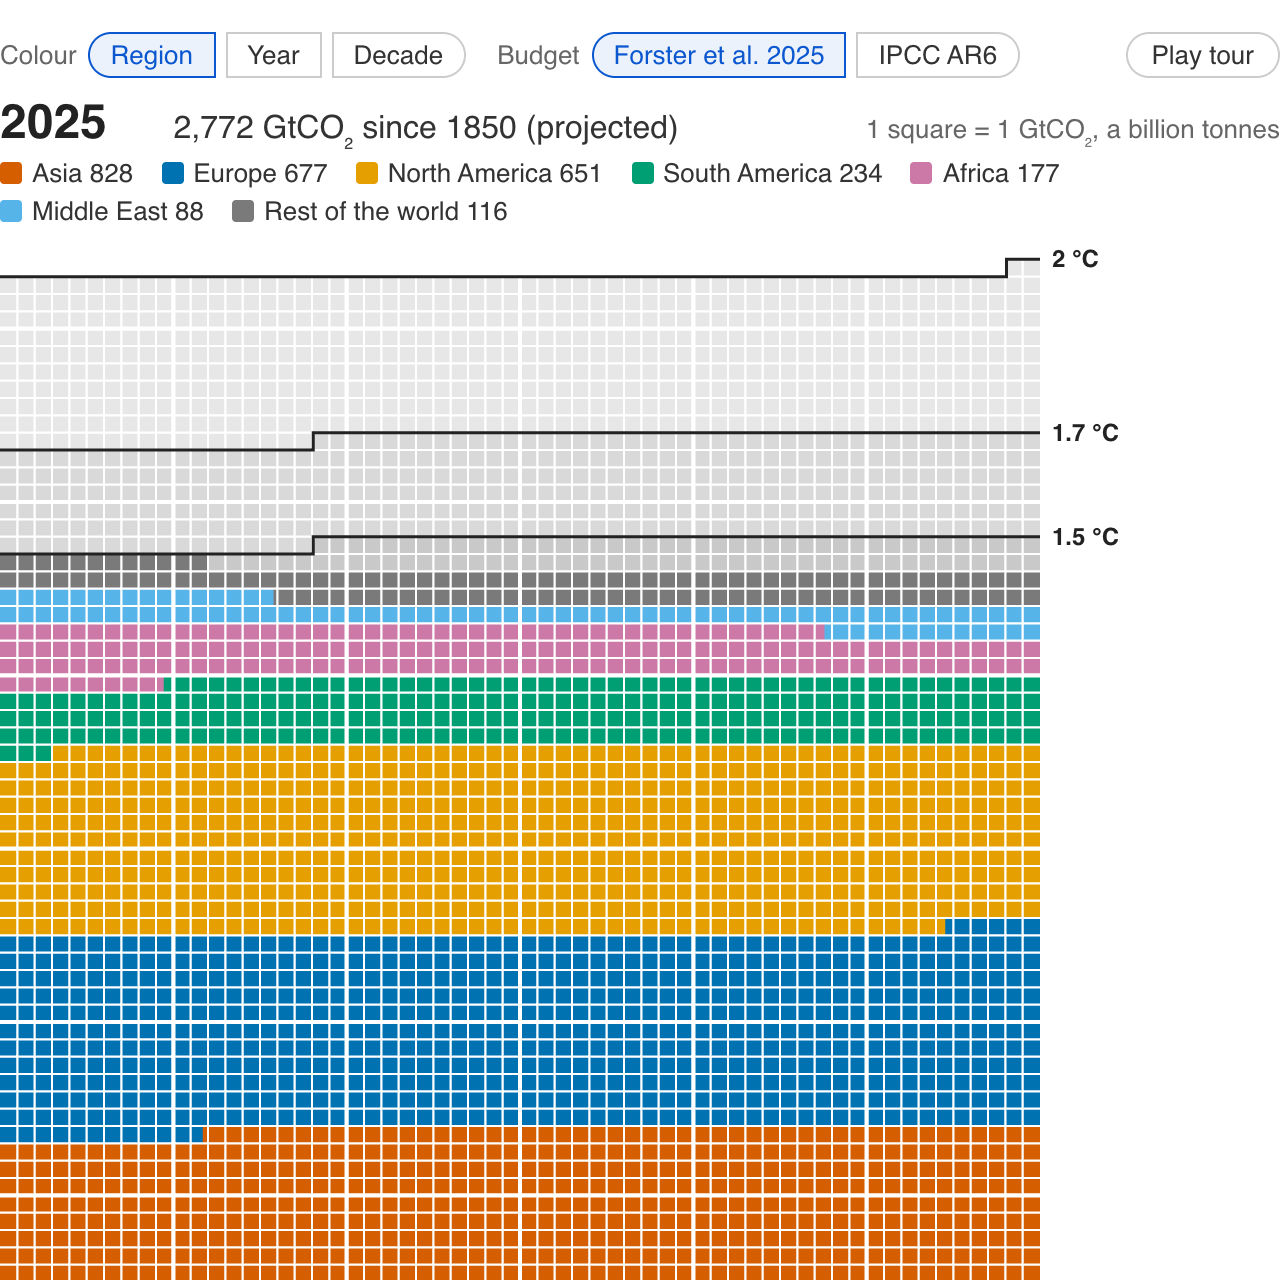
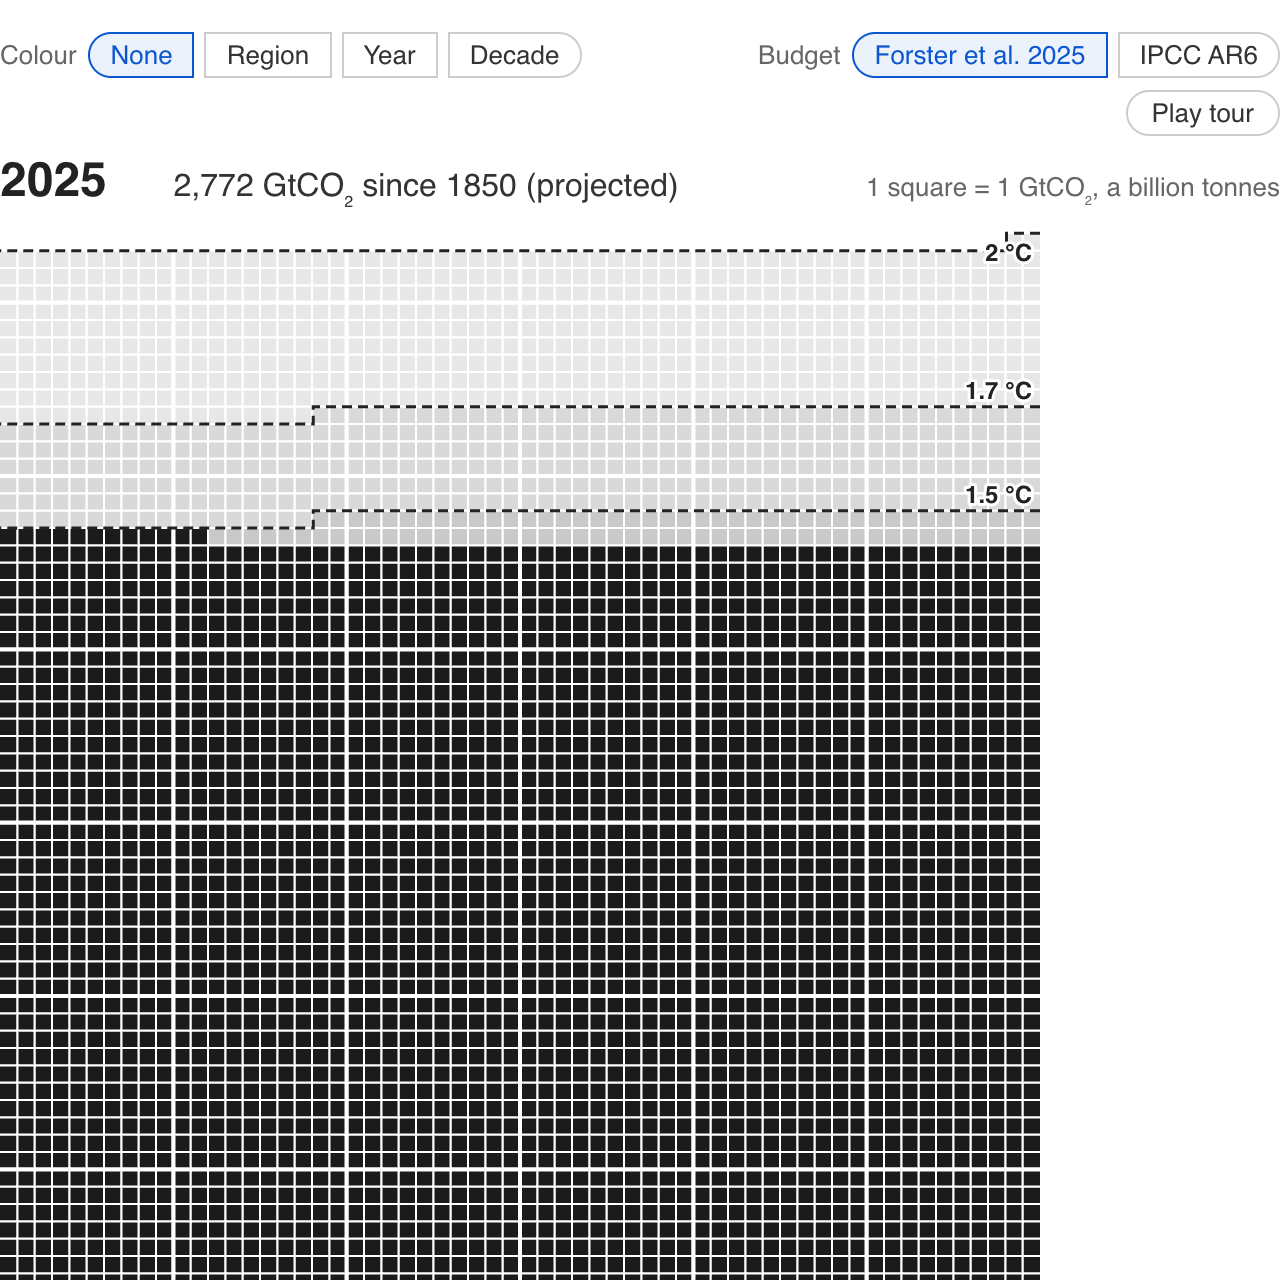
Carbon budget: black fill by default, dashed budget lines labelled on the grid, clickable key
The fill is plain black unless a colouring is chosen; by region, the key's entries are
buttons that outline a whole region. The budget lines are dashed and labelled just above
their right-hand end with a white halo, so the grid needs no margin. The selected block's
outline is half as thick and the block is named on the grid, kept inside its edges.

diff --git a/src/carbon-budget/widget.js b/src/carbon-budget/widget.js
@@ -38,21 +38,22 @@ const COLUMNS = 60;
 const FIGURE_WIDTH = 640;
 const MIN_WIDTH = 320;
 const GRID_MAX = 520;  // the grid's width cap, px; narrower figures shrink it
-const LABEL_W = 56;    // room to the right of the grid for the threshold labels
 const ACCENT = "#0b57d0";
 const EPS = 1e-9;
 
-export const COLOUR_MODES = ["region", "year", "decade"];
+export const COLOUR_MODES = ["none", "region", "year", "decade"];
 
 // Regions in the Okabe–Ito palette, which is safe for every kind of colour-vision
 // deficiency; its pale yellow is left out because it vanishes against the white lattice, and
 // the rest of the world is a grey darker than the unspent budget's. Years are on one warm
 // ramp from pale for 1850 to dark for the latest year, so the recent decades read as the
-// dark mass they are. What is left is grey, a shade lighter for each budget beyond the first.
+// dark mass they are. With no colouring, the default, the fill is plain near-black. What is
+// left is grey, a shade lighter for each budget beyond the first.
 export const COLOURS = {
   regions: {asia: "#D55E00", europe: "#0072B2", namerica: "#E69F00", samerica: "#009E73", africa: "#CC79A7", mideast: "#56B4E9", rest: "#7a7a7a"},
   ramp: ["#f9d9b8", "#f2ab74", "#e4713f", "#b93a24", "#6b1a15"],
   bands: ["#c9c9c9", "#d9d9d9", "#e7e7e7"],
+  plain: "#1b1b1b",
   line: "#222",
 };
 const FALLBACK_REGION = "#8c7a4e";
@@ -212,7 +213,7 @@ const SVG_NS = "http://www.w3.org/2000/svg";
 
 // `year` is where the slider starts (the last data year by default); `estimate` the id of
 // one of the data file's remaining-budget estimates (its first by default); `colour` one of
-// COLOUR_MODES ("region" by default).
+// COLOUR_MODES ("none" by default: the fill in plain black, stacked by region and country).
 export function createCarbonBudgetWidget({data, width = FIGURE_WIDTH, year, estimate, colour} = {}) {
   if (!data?.years || !data?.budgets) throw new Error("createCarbonBudgetWidget needs {data}: the contents of data/carbon-budget.json");
   const reduceMotion = window.matchMedia?.("(prefers-reduced-motion: reduce)")?.matches;
@@ -225,7 +226,7 @@ export function createCarbonBudgetWidget({data, width = FIGURE_WIDTH, year, esti
   const ESTIMATES = data.budgets.estimates;
   let estimateId = ESTIMATES.some(e => e.id === estimate) ? estimate : ESTIMATES[0].id;
   let thresholds = budgetThresholds(data, series, estimateId);
-  const modes = regions.length ? COLOUR_MODES : COLOUR_MODES.filter(m => m !== "region");
+  const modes = regions.length ? COLOUR_MODES : ["year", "decade"];
   let mode = modes.includes(colour) ? colour : modes[0];
   // The top of the grid: the largest 2 °C total any estimate reaches, so switching estimates
   // never changes the grid's shape.
@@ -240,14 +241,14 @@ export function createCarbonBudgetWidget({data, width = FIGURE_WIDTH, year, esti
 
   const fillAt = tt => fillOf(series, worldByYear, worldCumulative, tt);
   const blockFill = (block, tt) => fillOf(series, block.byYear, block.cumulative, tt);
-  const stacked = () => mode === "region";
+  const stacked = () => mode === "none" || mode === "region";
 
   // ---- layout -----------------------------------------------------------------------------------
   const maxW = Math.max(MIN_WIDTH, Math.round(width));
   let w, gridW, cell, gridH, latticeW, labelFont;
   function applyLayout(newW) {
     w = newW;
-    gridW = Math.min(GRID_MAX, w - LABEL_W);
+    gridW = Math.min(GRID_MAX, w);
     cell = gridW / COLUMNS;
     gridH = rows * cell;
     latticeW = clamp(cell * 0.12, 0.6, 1.6); // the white gap between squares
@@ -295,7 +296,7 @@ export function createCarbonBudgetWidget({data, width = FIGURE_WIDTH, year, esti
     return update;
   }
 
-  const MODE_LABELS = {region: "Region", year: "Year", decade: "Decade"};
+  const MODE_LABELS = {none: "None", region: "Region", year: "Year", decade: "Decade"};
   const updateModeButtons = buttonRow("Colour", modes.map(m => ({id: m, label: MODE_LABELS[m]})), setMode);
   const updateEstimateButtons = buttonRow("Budget", ESTIMATES.map(e => ({
     id: e.id, label: e.short ?? e.name,
@@ -329,16 +330,35 @@ export function createCarbonBudgetWidget({data, width = FIGURE_WIDTH, year, esti
   const legend = document.createElement("div");
   legend.style.cssText = "display:flex;flex-wrap:wrap;align-items:center;gap:4px 14px;padding:0 0 8px;font-size:13px;color:#333;min-height:1.4em;";
   container.appendChild(legend);
+  // Each region's entry is a button: it selects the whole region, outlined on the grid.
   const legendItems = new Map();
   for (const region of regions) {
-    const item = document.createElement("span");
-    item.style.cssText = "display:inline-flex;align-items:center;gap:5px;white-space:nowrap;";
+    const item = document.createElement("button");
+    item.type = "button";
+    item.style.cssText = "display:inline-flex;align-items:center;gap:5px;white-space:nowrap;font:inherit;color:inherit;" +
+      "background:none;border:1px solid transparent;border-radius:999px;padding:1px 6px 1px 4px;margin:-2px -6px -2px -4px;cursor:pointer;";
     const swatch = document.createElement("span");
     swatch.style.cssText = `width:11px;height:11px;border-radius:2px;background:${regionColour(region.id)};flex:none;`;
     const text = document.createElement("span");
     item.append(swatch, text);
-    item.title = region.note ? `${region.name}, ${region.note}` : region.name;
+    item.title = `${region.note ? `${region.name}, ${region.note}` : region.name}: click to outline it on the grid`;
+    item.addEventListener("click", () => {
+      stopTour();
+      const hit = {kind: "region", region};
+      selected = sameBlock(hit, selected) ? null : hit;
+      hovered = null;
+      updateHover();
+      emit();
+    });
     legendItems.set(region.id, {item, text});
+  }
+  function updateLegendButtons() {
+    for (const [id, {item}] of legendItems) {
+      const on = selected?.kind === "region" && selected.region.id === id;
+      item.style.borderColor = on ? ACCENT : "transparent";
+      item.style.color = on ? ACCENT : "inherit";
+      item.setAttribute("aria-pressed", on);
+    }
   }
   const rampItem = document.createElement("span");
   rampItem.style.cssText = "display:inline-flex;align-items:center;gap:6px;color:#666;";
@@ -381,7 +401,7 @@ export function createCarbonBudgetWidget({data, width = FIGURE_WIDTH, year, esti
 
   const hint = document.createElement("div");
   hint.style.cssText = "padding:8px 0 0;color:#888;font-size:14px;";
-  const HINT_IDLE = "Click or tap a square to see whose it is; click it again to let go. Drag the slider to a year.";
+  const HINT_IDLE = "Click or tap a square to see whose it is, or a region in the key; click again to let go. Drag the slider to a year.";
   const HINT_TOUR = "Playing the years through — move the slider or click anything to take over; Play tour starts it again.";
   hint.textContent = HINT_IDLE;
   container.appendChild(hint);
@@ -397,10 +417,11 @@ export function createCarbonBudgetWidget({data, width = FIGURE_WIDTH, year, esti
   // The chronological layout has a path per year (`yearPaths`, with the full-length `d` in
   // `fullD`, since the year in progress is cut short); the stacked layout a path per region
   // (`regionPaths`), redrawn at every step of time.
-  let yearPaths = [], fullD = [], regionPaths = [], hoverHalo = null, hoverPath = null;
+  let yearPaths = [], fullD = [], regionPaths = [], hoverHalo = null, hoverPath = null, hoverLabel = null;
+  const halo = {stroke: "#fff", "stroke-width": 3, "paint-order": "stroke", "stroke-linejoin": "round"};
 
   function build() {
-    svg.setAttribute("width", (gridW + LABEL_W).toFixed(0));
+    svg.setAttribute("width", gridW.toFixed(0));
     svg.setAttribute("height", Math.ceil(gridH + 2));
     svg.replaceChildren();
 
@@ -441,22 +462,28 @@ export function createCarbonBudgetWidget({data, width = FIGURE_WIDTH, year, esti
     svgEl("path", {d: thin, stroke: "#fff", "stroke-width": latticeW.toFixed(2), fill: "none", "pointer-events": "none"}, svg);
     svgEl("path", {d: thick, stroke: "#fff", "stroke-width": (2 * latticeW).toFixed(2), fill: "none", "pointer-events": "none"}, svg);
 
-    // The budgets: a line each, labelled at its right end.
+    // The budgets: a dashed line each, labelled just above its right-hand end (below it for a
+    // line too close to the top), the label haloed in white so that it reads on the grey.
     const lines = svgEl("g", {"pointer-events": "none"}, svg);
     for (const th of thresholds) {
       const {d, y} = stepLine(th.total, rows, cell);
-      svgEl("path", {d, stroke: COLOURS.line, "stroke-width": 1.5, fill: "none"}, lines);
+      svgEl("path", {d, stroke: COLOURS.line, "stroke-width": 1.5, "stroke-dasharray": "5 3", fill: "none"}, lines);
+      const above = y - 4 >= labelFont;
       const label = svgEl("text", {
-        x: (gridW + 6).toFixed(1), y: y.toFixed(1), "dominant-baseline": "central",
-        "font-size": labelFont, "font-weight": "bold", fill: COLOURS.line,
+        x: (gridW - 4).toFixed(1), y: (above ? y - 4 : y + labelFont + 2).toFixed(1), "text-anchor": "end",
+        "font-size": labelFont, "font-weight": "bold", fill: COLOURS.line, ...halo,
       }, lines);
       label.textContent = th.label;
     }
 
-    // The block picked out, outlined: a country's contribution, or a year's, with a white halo
-    // under the line so that it shows on the dark blocks.
-    hoverHalo = svgEl("path", {fill: "none", stroke: "#fff", "stroke-width": 5.5, "stroke-linecap": "square", "pointer-events": "none"}, svg);
-    hoverPath = svgEl("path", {fill: "none", stroke: "#111", "stroke-width": 2.5, "stroke-linecap": "square", "pointer-events": "none"}, svg);
+    // The block picked out: a country's contribution, a region's or a year's, outlined with a
+    // white halo under the line so that it shows on the dark blocks, and named on the grid.
+    hoverHalo = svgEl("path", {fill: "none", stroke: "#fff", "stroke-width": 3, "stroke-linecap": "square", "pointer-events": "none"}, svg);
+    hoverPath = svgEl("path", {fill: "none", stroke: "#111", "stroke-width": 1.25, "stroke-linecap": "square", "pointer-events": "none"}, svg);
+    hoverLabel = svgEl("text", {
+      "text-anchor": "middle", "dominant-baseline": "central", "font-size": labelFont, "font-weight": "bold",
+      fill: "#111", "pointer-events": "none", ...halo,
+    }, svg);
 
     shownYear = null;
     applyColours();
@@ -486,11 +513,13 @@ export function createCarbonBudgetWidget({data, width = FIGURE_WIDTH, year, esti
 
   function applyColours() {
     yearPaths.forEach((p, k) => p.setAttribute("fill", cssRgb(mode === "decade" ? decadeRgb(years[k].year) : yearRgb(years[k].year))));
-    // The key for the mode: regions with their running totals, or the ramp.
+    regionPaths.forEach((p, i) => p.setAttribute("fill", mode === "region" ? regionColour(regions[i].id) : COLOURS.plain));
+    // The key for the mode: regions with their running totals, the ramp, or nothing.
     legend.replaceChildren();
-    if (stacked()) {
+    legend.style.display = mode === "none" ? "none" : "";
+    if (mode === "region") {
       for (const {item} of legendItems.values()) legend.appendChild(item);
-    } else {
+    } else if (!stacked()) {
       const span = lastYear - firstYear + 1;
       const stops = mode === "decade"
         ? Array.from({length: Math.ceil(span / 10)}, (_, d) =>
@@ -593,6 +622,10 @@ export function createCarbonBudgetWidget({data, width = FIGURE_WIDTH, year, esti
   // A block's [from, to) in the fill at the current time, or null if the layout has no block
   // for it (a country in the chronological layout, a year in the stacked one, or grey).
   function spanOf(h) {
+    if (h.kind === "region" && stacked()) {
+      const from = bases(regions, t)[regions.indexOf(h.region)];
+      return [from, from + blockFill(h.region, t)];
+    }
     if (h.kind === "country" && stacked()) {
       const i = regions.indexOf(h.region);
       const from = bases(regions, t)[i] + bases(h.region.countries, t)[h.region.countries.indexOf(h.country)];
@@ -603,7 +636,7 @@ export function createCarbonBudgetWidget({data, width = FIGURE_WIDTH, year, esti
   }
 
   const sameBlock = (a, b) => a === b || (a && b && a.kind === b.kind && a.country === b.country && a.year === b.year &&
-    (a.kind !== "grey" || Math.floor(a.square) === Math.floor(b.square)));
+    (a.kind !== "region" || a.region === b.region) && (a.kind !== "grey" || Math.floor(a.square) === Math.floor(b.square)));
 
   // A click or tap selects the block, and stays selected until the block is clicked again or
   // a grey square is; this is what works on a touch screen. A mouse also previews the block
@@ -657,6 +690,17 @@ export function createCarbonBudgetWidget({data, width = FIGURE_WIDTH, year, esti
       const where = i === 0 ? `inside the ${thresholds[0].label} budget` : `past the ${thresholds[i - 1].label} budget, inside ${thresholds[i].label}`;
       return {head: "Not yet emitted. ", body: `This square is ${where}.`};
     }
+    if (h.kind === "region") {
+      const {region} = h;
+      const fill = blockFill(region, t), cum = fillAt(t);
+      const k = y - firstYear;
+      const top = region.countries.filter(c => !c.members && c.cumulative[k] > 0).slice(0, 3).map(c => `${c.name} ${formatGt(c.cumulative[k])}`);
+      return {
+        head: `${region.name}${region.note ? ` (${region.note})` : ""}. `,
+        body: `${formatGt(fill)} GtCO₂ since ${firstYear}: ${formatPercent(fill / cum)} of the world's ${formatGt(cum)}` +
+          (top.length ? `; most of it ${joinList(top)}` : "") + `. ${formatGt(region.byYear[k])} GtCO₂ in ${y}.`,
+      };
+    }
     if (h.kind === "country") {
       const {country, region} = h;
       const fill = blockFill(country, t), regionFill = blockFill(region, t), cum = fillAt(t);
@@ -694,9 +738,28 @@ export function createCarbonBudgetWidget({data, width = FIGURE_WIDTH, year, esti
     const h = shown();
     const span = h === null ? null : spanOf(h);
     const top = thresholds[thresholds.length - 1].total;
-    const d = span === null ? "" : outlinePath(rowRects(span[0], Math.min(span[1], top), rows), cell);
+    const rects = span === null ? [] : rowRects(span[0], Math.min(span[1], top), rows);
+    const d = outlinePath(rects, cell);
     hoverHalo.setAttribute("d", d);
     hoverPath.setAttribute("d", d);
+    // The name, at the middle of the block: the rectangle around the block's centre of area,
+    // kept inside the grid.
+    const name = h === null ? "" : h.kind === "country" ? h.country.name : h.kind === "region" ? h.region.name : h.kind === "year" ? String(h.year.year) : "";
+    if (rects.length && name) {
+      const area = r => (r.x1 - r.x0) * (r.y1 - r.y0);
+      const total = rects.reduce((a, r) => a + area(r), 0);
+      const cy = rects.reduce((a, r) => a + area(r) * (r.y0 + r.y1) / 2, 0) / total;
+      const best = rects.find(r => cy >= r.y0 && cy < r.y1) ?? rects.reduce((a, b) => (area(b) > area(a) ? b : a));
+      const half = name.length * labelFont * 0.56 / 2 + 3;
+      const x = clamp((best.x0 + best.x1) / 2 * cell, half, gridW - half);
+      const y = clamp((best.y0 + best.y1) / 2 * cell, labelFont * 0.7, gridH - labelFont * 0.7);
+      hoverLabel.setAttribute("x", x.toFixed(1));
+      hoverLabel.setAttribute("y", y.toFixed(1));
+      hoverLabel.textContent = name;
+    } else {
+      hoverLabel.textContent = "";
+    }
+    updateLegendButtons();
     updateStatus();
   }
 
@@ -760,7 +823,9 @@ export function createCarbonBudgetWidget({data, width = FIGURE_WIDTH, year, esti
       year: y,
       estimate: estimateId,
       colour: mode,
-      selected: selected === null ? null : selected.kind === "country" ? {country: selected.country.name, region: selected.region.name} : {year: selected.year.year},
+      selected: selected === null ? null
+        : selected.kind === "country" ? {country: selected.country.name, region: selected.region.name}
+        : selected.kind === "region" ? {region: selected.region.name} : {year: selected.year.year},
       emitted: Math.round(cum),
       remaining: Object.fromEntries(thresholds.map(th => [th.limit, Math.round(th.total - cum)])),
     };

diff --git a/src/carbon-budget/index.md b/src/carbon-budget/index.md
@@ -1,8 +1,8 @@
 # The carbon budget
 
-Warming tracks the total amount of carbon dioxide ever emitted, so a limit on warming is a limit on the total: a carbon budget. Every square here is a billion tonnes of CO₂ (1 GtCO₂). The coloured squares are what has been emitted since 1850, about 2,770 of them by the end of 2025, stacked by region and, within a region, by country. The grey squares are what is left, and the three lines are where the budget runs out for 1.5, 1.7 and 2 °C of warming: 90, 450 and 1,010 GtCO₂ from the start of 2026, by the Global Carbon Budget 2025's update of Forster et al. (2025). At the 2025 rate of 42 GtCO₂ a year, that is about 2, 11 and 24 years.
+Warming tracks the total amount of carbon dioxide ever emitted, so a limit on warming is a limit on the total: a carbon budget. Every square here is a billion tonnes of CO₂ (1 GtCO₂). The black squares are what has been emitted since 1850, about 2,770 of them by the end of 2025, stacked by region and, within a region, by country. The grey squares are what is left, and the three lines are where the budget runs out for 1.5, 1.7 and 2 °C of warming: 90, 450 and 1,010 GtCO₂ from the start of 2026, by the Global Carbon Budget 2025's update of Forster et al. (2025). At the 2025 rate of 42 GtCO₂ a year, that is about 2, 11 and 24 years.
 
-Left alone, the figure winds back to 1850 and plays the years through. Move the slider or click anything to stop it; *Play tour* starts it again. Click or tap a square to see whose it is: the country is named and its whole contribution outlined, and stays so until you click it again. The *Colour* toggle lays the same squares out by year instead, oldest at the bottom, or by decade.
+Left alone, the figure winds back to 1850 and plays the years through. Move the slider or click anything to stop it; *Play tour* starts it again. Click or tap a square to see whose it is: the country is named and its whole contribution outlined, and stays so until you click it again. The *Colour* toggle paints the squares by region, with a key whose entries outline a whole region when clicked, or lays the same squares out by year instead, oldest at the bottom, or by decade.
 
 ```js
 import {createCarbonBudgetWidget, budgetSeries, budgetThresholds, formatGt} from "./widget.js";
@@ -16,7 +16,7 @@ const budget = view(createCarbonBudgetWidget({data}));
 
 ## What to look for
 
-**Three regions, three-quarters.** Asia, Europe and North America have emitted 30%, 24% and 24% of the total; South America 8%, Africa 6%, the Middle East 3%. Click inside the blocks and the countries come out: the United States alone is a fifth of everything since 1850, China an eighth, and then Russia, Brazil, Germany, Indonesia and India at three to five percent each. Brazil and Indonesia are there for their forests, not their fuel.
+**Three regions, three-quarters.** Colour by *Region*: Asia, Europe and North America have emitted 30%, 24% and 24% of the total; South America 8%, Africa 6%, the Middle East 3%. Click inside the blocks and the countries come out: the United States alone is a fifth of everything since 1850, China an eighth, and then Russia, Brazil, Germany, Indonesia and India at three to five percent each. Brazil and Indonesia are there for their forests, not their fuel.
 
 **The pace.** Switch the colour to *Year* and play the tour. The years go by at a steady rate and the fill does not: the first fifty years lay down about two hundred squares, the last fifty about 1,650. Half of everything emitted since 1850 has been emitted since 1986, and a third of it since 2000. Each row of the grid is 60 GtCO₂, about a year and a half of today's emissions, and it takes the fill about three rows to add a tenth of a degree of warming.
 
@@ -77,7 +77,7 @@ The layout is a waffle chart: a grid of unit squares, 60 wide, filled from the b
 
 **The whole grid is the total budget.** A remaining carbon budget is the difference between a total budget, fixed by the climate's response to CO₂, and what has been emitted. So the total for each limit is emissions to date plus the remaining budget, and the picture at any year is the same grid with the fill lower down. Ed Hawkins's [carbon budget countdown](https://ed-hawkins.github.io/climate-visuals/cbudget.html) draws exactly this as a pie chart filling from 1850; the grid is the same idea with the squares kept countable and, here, attributed.
 
-**Stacked, not interleaved.** By region, the fill is a stack of blocks, one per region and inside it one per country, largest first, each block growing as the years pass. The blocks shift as the ones below them grow, so a square is not a fixed gigatonne; it is a place in a stacked bar. By year, the same squares are laid down in the order they were emitted, and a square is a fixed gigatonne with a date. Both layouts have the same height at every year, because they hold the same squares.
+**Stacked, not interleaved.** In black or by region, the fill is a stack of blocks, one per region and inside it one per country, largest first, each block growing as the years pass. The blocks shift as the ones below them grow, so a square is not a fixed gigatonne; it is a place in a stacked bar. By year, the same squares are laid down in the order they were emitted, and a square is a fixed gigatonne with a date. Both layouts have the same height at every year, because they hold the same squares.
 
 **Why the lines move and the past does not.** The two estimates share the emissions record and differ only in the remaining budget, so switching between them moves the lines and leaves the coloured squares alone.
 
@@ -97,7 +97,7 @@ display(embedSnippets({
   note: "The grid is 520&nbsp;px wide and 560&nbsp;px tall in a frame 580&nbsp;px wide or more and shrinks with the " +
     "frame below that, so the height above suits a frame 640&nbsp;px wide; allow about " +
     "650&nbsp;px at phone width. The embed page accepts <code>?year=1990</code> to open on that year, " +
-    "<code>?colour=year</code> or <code>?colour=decade</code> to open in that colouring, and " +
+    "<code>?colour=region</code>, <code>?colour=year</code> or <code>?colour=decade</code> to open in that colouring, and " +
     "<code>?estimate=ipcc</code> to draw the lines from the IPCC estimate.",
   script: `<div id="carbon-budget"></div>
 
@@ -108,8 +108,8 @@ display(embedSnippets({
   const data = await fetch("${cdnUrl("carbon-budget/data/carbon-budget.json")}")
     .then(r => r.json());
 
-  // Options: {year: 1990} opens on that year, {colour: "year"} or {colour: "decade"} in that
-  // colouring, {estimate: "ipcc"} draws the lines from the IPCC estimate.
+  // Options: {year: 1990} opens on that year, {colour: "region"}, {colour: "year"} or
+  // {colour: "decade"} in that colouring, {estimate: "ipcc"} draws the lines from the IPCC estimate.
   document.getElementById("carbon-budget")
     .appendChild(createCarbonBudgetWidget({data}));
 <\/script>`

diff --git a/src/carbon-budget/embed.md b/src/carbon-budget/embed.md
@@ -31,7 +31,7 @@ import {createCarbonBudgetWidget} from "./widget.js";
 
 const data = await FileAttachment("data/carbon-budget.json").json();
 
-// ?year=1990 opens on that year; ?colour=year or ?colour=decade opens in that colouring;
+// ?year=1990 opens on that year; ?colour=region, ?colour=year or ?colour=decade opens in that colouring;
 // ?estimate=ipcc or ?estimate=forster draws the lines from that estimate (the data file's ids).
 const params = new URLSearchParams(location.search);
 const year = Number(params.get("year")) || undefined;
